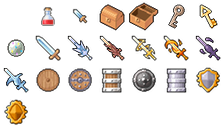
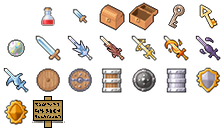
added sign sprite to items sheet, added E button as interact button

Changed region(s): [[0.125, 0.75, 0.2812, 1.0]]

diff --git a/utils/constants.js b/utils/constants.js
@@ -49,7 +49,7 @@
       'key_special', 'orb', 'sword', 'sword_ice', 'sword_earth',
       'sword_light', 'sword_fire', 'sword_dark', 'sword_what',
       'shield_1', 'shielf_2', 'shield_3', 'shield_4', 'shield_5', 'shield_6',
-      'shield_7'
+      'shield_7','sign'
    ]);
 
    Constants.GAME_WIDTH = 640;
@@ -68,6 +68,7 @@
       68: 'right',
       87: 'up',
       83: 'down',
+      69: 'interact',
       // 74: 'attackLeft',
       // 76: 'attackRight',
       // 73: 'attackUp',

diff --git a/classes/npc.js b/classes/npc.js
@@ -11,7 +11,7 @@ ClassManager.create('NPC', function(game) {
 
       initialize: function(x, y) {
          Classes['Character'].call(this, x, y);
-         this.image = game.assets["assets/images/player.png"];
+         this.image = game.assets["assets/images/npc1.png"];
 
          this.attackCounter = 0;
          this.cooldown = 0;
